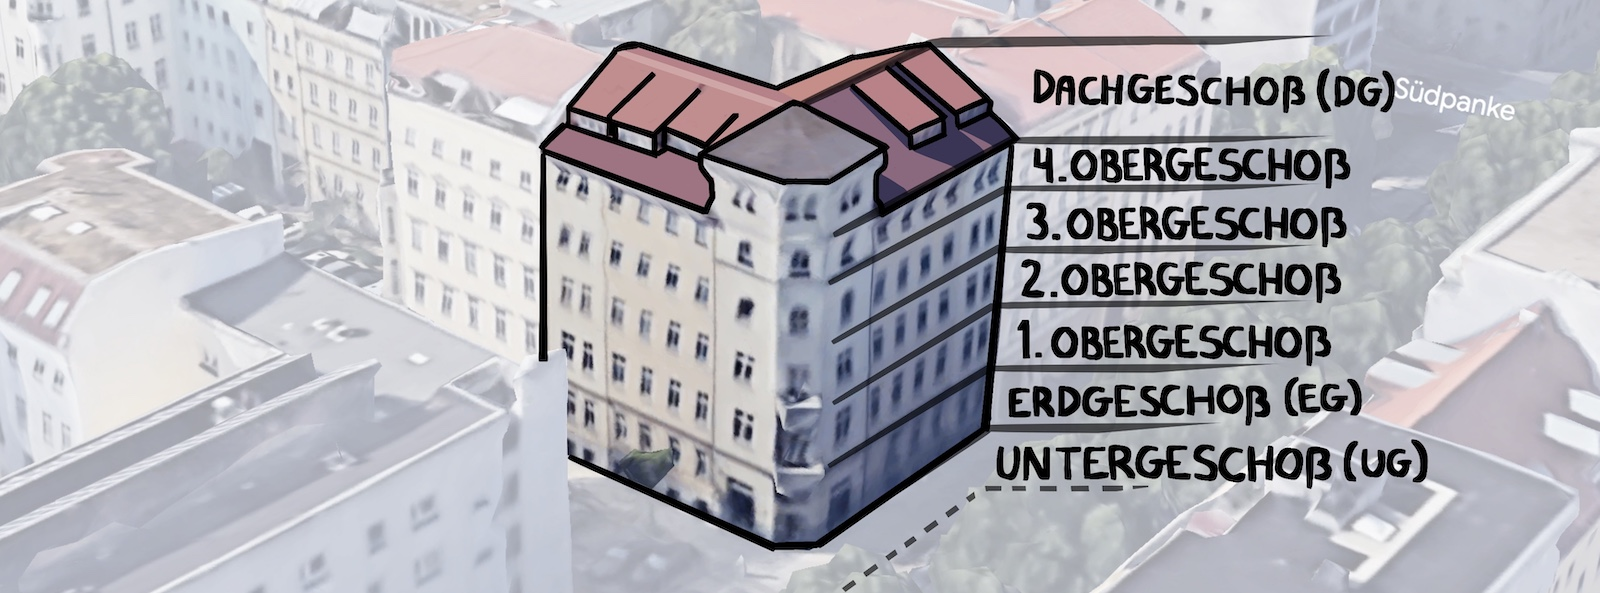
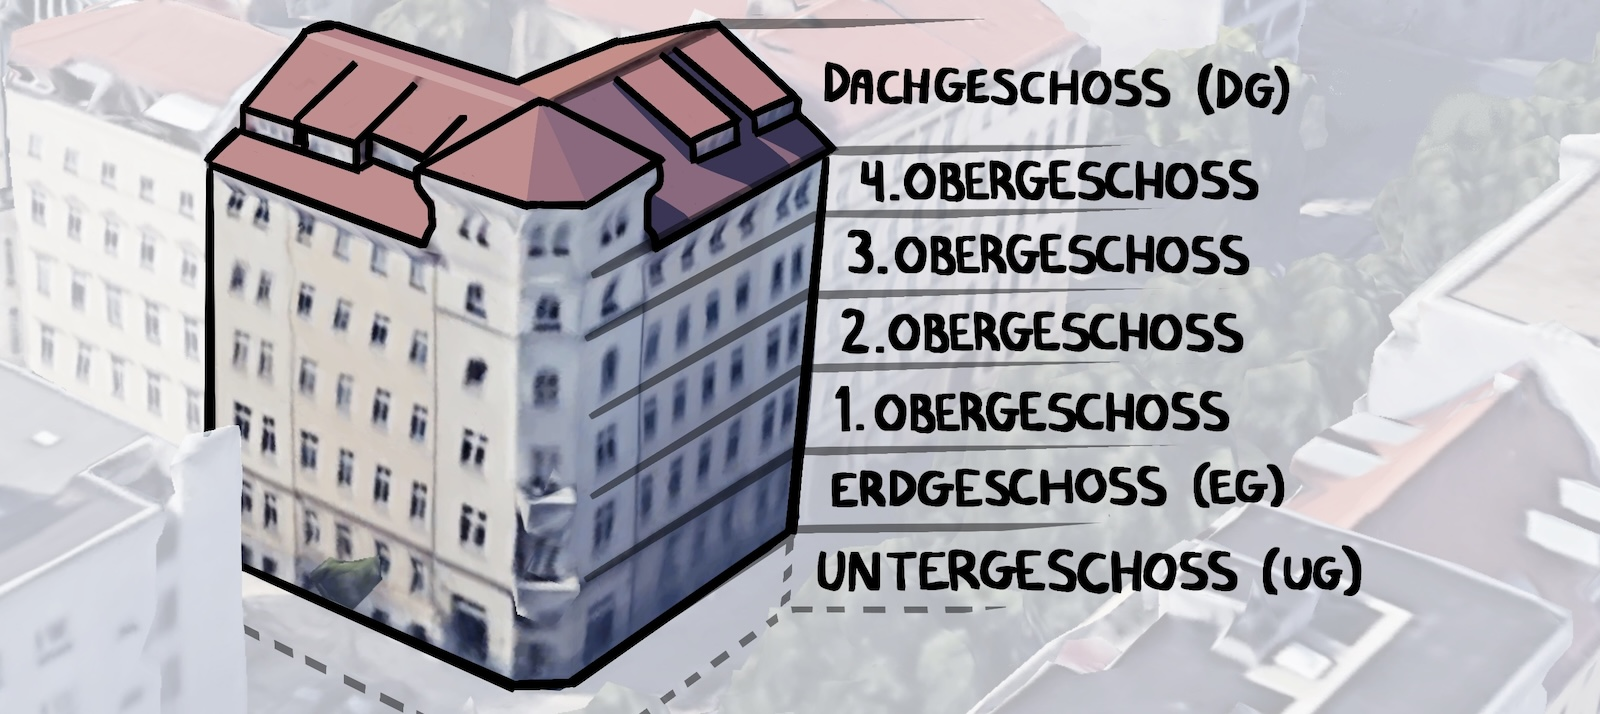
Apartment: Reformat important knowledge section

diff --git a/content/guides/find-a-flat-in-berlin.md b/content/guides/find-a-flat-in-berlin.md
@@ -28,22 +28,20 @@ It's harder if...
 
 ## Before you start
 
-### Prepare
+Before you [look for apartments](#step-1-look-for-apartments), you should...
 
-Before you [look for apartments](#step-1-look-for-apartments), you must...
-
-- [ ] **Understand [how housing works](#important-knowledge)**  
-    Things are a little different in Germany. Learn about those small differences.
+- [ ] **Understand [how things work](#important-knowledge) in Germany**  
+    Housing is a little different in Germany. Learn about those small differences.
 - [ ] **Know [your options](#your-housing-options)**  
     Should you get an apartment, a furnished apartment, a bedroom in a [[WG]] or student housing? It depends on your situation.
-- [ ] **[Open a bank account](/guides/first-bank-account-in-germany)**  
-    Germans pay their rent by [bank transfer](/glossary/SEPA-%C3%9Cberweisung). If you can't open a bank account, use [Wise](/out/transferwise) to send money from another country.
 - [ ] **Save money**  
     You must pay the [deposit](/glossary/Kaution) and the first rent. The deposit is usually 3 times the [cold rent](/glossary/Kaltmiete). You must also [buy furniture, appliances, and house supplies](/guides/where-to-buy-what#furniture-and-house-supplies).
-- [ ] **Create your accounts**  
-    Make complete, detailed profiles on ImmobilienScout24, Kleinanzeigen and WG-Gesucht.[^2] You will need them to apply for apartments.
+- [ ] **[Open a bank account](/guides/first-bank-account-in-germany)**  
+    Germans pay their rent by [bank transfer](/glossary/SEPA-%C3%9Cberweisung). If you can't open a bank account, use [Wise](/out/transferwise) to send money from another country.
+- [ ] **Create accounts on housing websites**  
+    Make complete, detailed profiles on [ImmobilienScout24](https://www.immobilienscout24.de/), [Kleinanzeigen](https://www.kleinanzeigen.de/stadt/berlin/) and [WG-Gesucht](https://www.wg-gesucht.de/). You will need them to apply for apartments. A detailed profile improves your chances.
 - [ ] **Prepare the [required documents](#what-to-bring-to-the-visit)**  
-    You must be ready to apply for an apartment as soon as it goes online. Your documents must be ready.
+    To find an apartment, you have to be fast. You must have your documents ready.
 
 ## Step 1: Look for apartments
 
@@ -327,23 +325,46 @@ There are 3 types of insurance that cover your apartment:
 
 ## Important knowledge
 
-- **The deposit**  
-    Almost all apartments require a deposit (*[[Kaution]]*). It's usually 3 times the [cold rent](/glossary/Kaltmiete). You get it back when you [move out](/guides/moving-out). You can [pay it in 3 instalments](/guides/mietkaution#when-to-pay-the-kaution). - [More about the deposit](/guides/mietkaution)
-- **Cold rent and warm rent**  
-    In Germany, there is the cold rent (*[[Kaltmiete]]*) and the warm rent (*[[Warmmiete]]*). The warm rent is the cold rent plus utilities (*[[Nebenkosten]]*). It's what you pay every month. The *Nebenkosten* are not a fixed cost; your landlord adjusts them once per year based on your usage.
-- **Nothing is included**  
-    Apartments usually come without a washing machine, curtains, light fixtures or a furnished kitchen (stove, fridge, sink). You must buy your own, or buy them from the previous tenant. In Berlin, apartments *must* include a stove and a sink,[^3] but not in the rest of Germany. [Furnished apartments](#short-term-and-furnished-apartments) come with the kitchen, furniture and everything else.
-- **You pay rent by bank transfer**  
-    You usually pay the rent by [SEPA transfer](/glossary/SEPA-%C3%9Cberweisung). You rarely pay the rent with cash, and never with cheques.
-- **Rooms are not counted the same way**  
-    In Germany, the living room also counts as a room. A studio is a *1 Zimmer Wohnung*. A 2-bedroom apartment with a living room is a *3 Zimmer Wohnung*. The kitchen, the bathroom and the hallway do not count as rooms.
+### Deposit
+
+Almost all apartments require a deposit (*[[Kaution]]*). It's usually 3 times the [cold rent](/glossary/Kaltmiete). You get it back when you [move out](/guides/moving-out). You can [pay it in 3 instalments](/guides/mietkaution#when-to-pay-the-kaution). You must pay the first instalment before you [move in](/guides/moving-in).
+
+**[How the deposit works ➞](/guides/mietkaution)**
+
+### Cold rent and warm rent
+
+The warm rent (*[[Warmmiete]]*) is what you pay every month. It's the cold rent (*[[Kaltmiete]]*) plus utilities (*[[Nebenkosten]]*).
+
+The *Nebenkosten* usually include:
+
+- Heating
+- Hot water (most of the time)
+- Trash collection
+- Cleaning and landscaping
+
+The *Nebenkosten* are not a fixed cost, because you don't know how much water and heating you really use. Your landlord adjusts the *Nebenkosten* every year based on your usage. You pay what your landlord pays. Your landlord can't make a profit on *Nebenkosten*.
+
+### Nothing is included
+
+Apartments usually come without a washing machine, curtains, light fixtures or a furnished kitchen (stove, fridge, sink). You must buy your own, or buy them from the previous tenant. In Berlin, apartments *must* include a stove and a sink,[^3] but not in the rest of Germany. [Furnished apartments](#short-term-and-furnished-apartments) come with the kitchen, furniture and everything else.
+
+### Rent is paid by bank transfer
+
+You usually pay the rent by [bank transfer](/glossary/SEPA-%C3%9Cberweisung). You rarely pay the rent with cash, and never with cheques.
+
+You need a European bank account to make bank transfers. You can also use [Wise](/out/transferwise) to transfer money from a non-EU country.
+
+### Rooms and floors
+
+Rooms and floors are not counted the same way everywhere.
+
+In Germany, the living room also counts as a room. A studio is a *1 Zimmer Wohnung*. A 2-bedroom apartment with a living room is a *3 Zimmer Wohnung*. The kitchen, the bathroom and the hallway do not count as rooms.
 
 [![Apartment floor plan berlin](/illustrations/apartment-floor-plan-berlin.png)](/illustrations/apartment-floor-plan-berlin.png)
 
-- **Floors are not counted the same way**  
-    In North America, the first floor is the ground floor. In Germany, there is the ground floor (*Erdgeschoss* or *EG*), then the first floor.
-- **The [TV tax](/guides/gez-rundfunkbeitrag)**  
-    Each household pays the TV tax (*[[Rundfunkbeitrag]]*). It costs {{RUNDFUNKBEITRAG_FEE|cur}}€ per month. If you live with other people, you can split the cost. - [More information](/guides/gez-rundfunkbeitrag)
+In many countries, the first floor is the ground floor. In Germany, the first floor is above the ground floor.
+
+[![Floors/stories of a German building](/images/building-floors.jpg)](/images/building-floors.jpg)
 
 ## Your housing options
 
@@ -413,7 +434,6 @@ If you just moved to Berlin, **don't buy an apartment**. Buying is even harder t
 
 [^0]: [arbeitnow.com](https://www.arbeitnow.com/blog/finding-an-apartment-in-berlin/#applying-for-apartments) (2021), [Reddit 1](https://old.reddit.com/r/berlin/comments/11rd07l/results_of_my_apartment_search_in_berlin/), [2](https://old.reddit.com/r/berlin/comments/13xmrod/found_an_apartment_but_at_what_cost/jmjecah/), [3](https://old.reddit.com/r/berlin/comments/x7azrj/giving_up_on_wggesucht/), [4](https://old.reddit.com/r/berlin/comments/xe1yj2/the_berlin_flat_hunt_a_case_study_more_info_in/)
 [^1]: [Reddit 1](https://old.reddit.com/r/germany/comments/sb4afp/immoscout_plus_worth_it/), [2](https://old.reddit.com/r/berlin/comments/127s2wb/is_immobilienscout24_safe/), [3](https://old.reddit.com/r/AskAGerman/comments/wwks53/is_it_worth_to_pay_immoscout_24/), [4](https://old.reddit.com/r/Munich/comments/122su9o/tips_for_immoscout24/), [5](https://old.reddit.com/r/germany/comments/11pd4db/in_terms_of_immo_scout24_have_you_ever_gotten_a/jbzxnoe/), [6](https://old.reddit.com/r/germany/comments/14e80yc/immoscout24_mieter_plus/jotqvk6/)
-[^2]: [Reddit](https://old.reddit.com/r/Munich/comments/122su9o/tips_for_immoscout24/)
 [^3]: [immonet.de](https://www.immonet.de/umzug/wissenswertes-rechtliches-mietrecht-kuechenausstattung.html)
 [^4]: [wunderflats.com](https://wunderflats.com/en/help/post/75000054566), [housinganywhere.com](https://housinganywhere.com/pricing/tenants)
 [^5]: [deutschesmietrecht.de](https://deutschesmietrecht.de/steuern/365-untervermietung-steuern-freigrenzen-steuerhinterziehung.html#:~:text=umsatzsteuer%20bei%20kurzfristiger%20oder%20langfristiger%20vermietung), [haufe.de](https://www.haufe.de/finance/haufe-finance-office-premium/steuerbefreiung-bei-vermietungsleistungen-zu-4-nr12-ustg_idesk_PI20354_HI9097997.html)

diff --git a/content/glossary/Warmmiete.md b/content/glossary/Warmmiete.md
@@ -14,4 +14,4 @@ The warm rent (*Warmmiete*) is the rent you pay every month. It's your cold rent
 
 > Cold rent (*Kaltmiete*) + utilities (*Nebenkosten*) = warm rent (*Warmmiete*)
 
-Your warm rent is adjusted every year, because your utility costs (*Nebenkosten*) can change.
+Your warm rent is adjusted every year, because your utility costs (*Nebenkosten*) can change based on your usage.

diff --git a/content/guides/addressing-a-letter-in-germany.md b/content/guides/addressing-a-letter-in-germany.md
@@ -122,7 +122,7 @@ If no one else should read this letter, add *Persönlich* (personal) or *Vertrau
 
 > The name of the business  
 > z. Hd. The person you are writing to  
-> **- Vertraulich -**
+> **- Vertraulich -**  
 > Street and door number  
 > [Postal code](/glossary/Postleitzahl) and city  
 > Country
